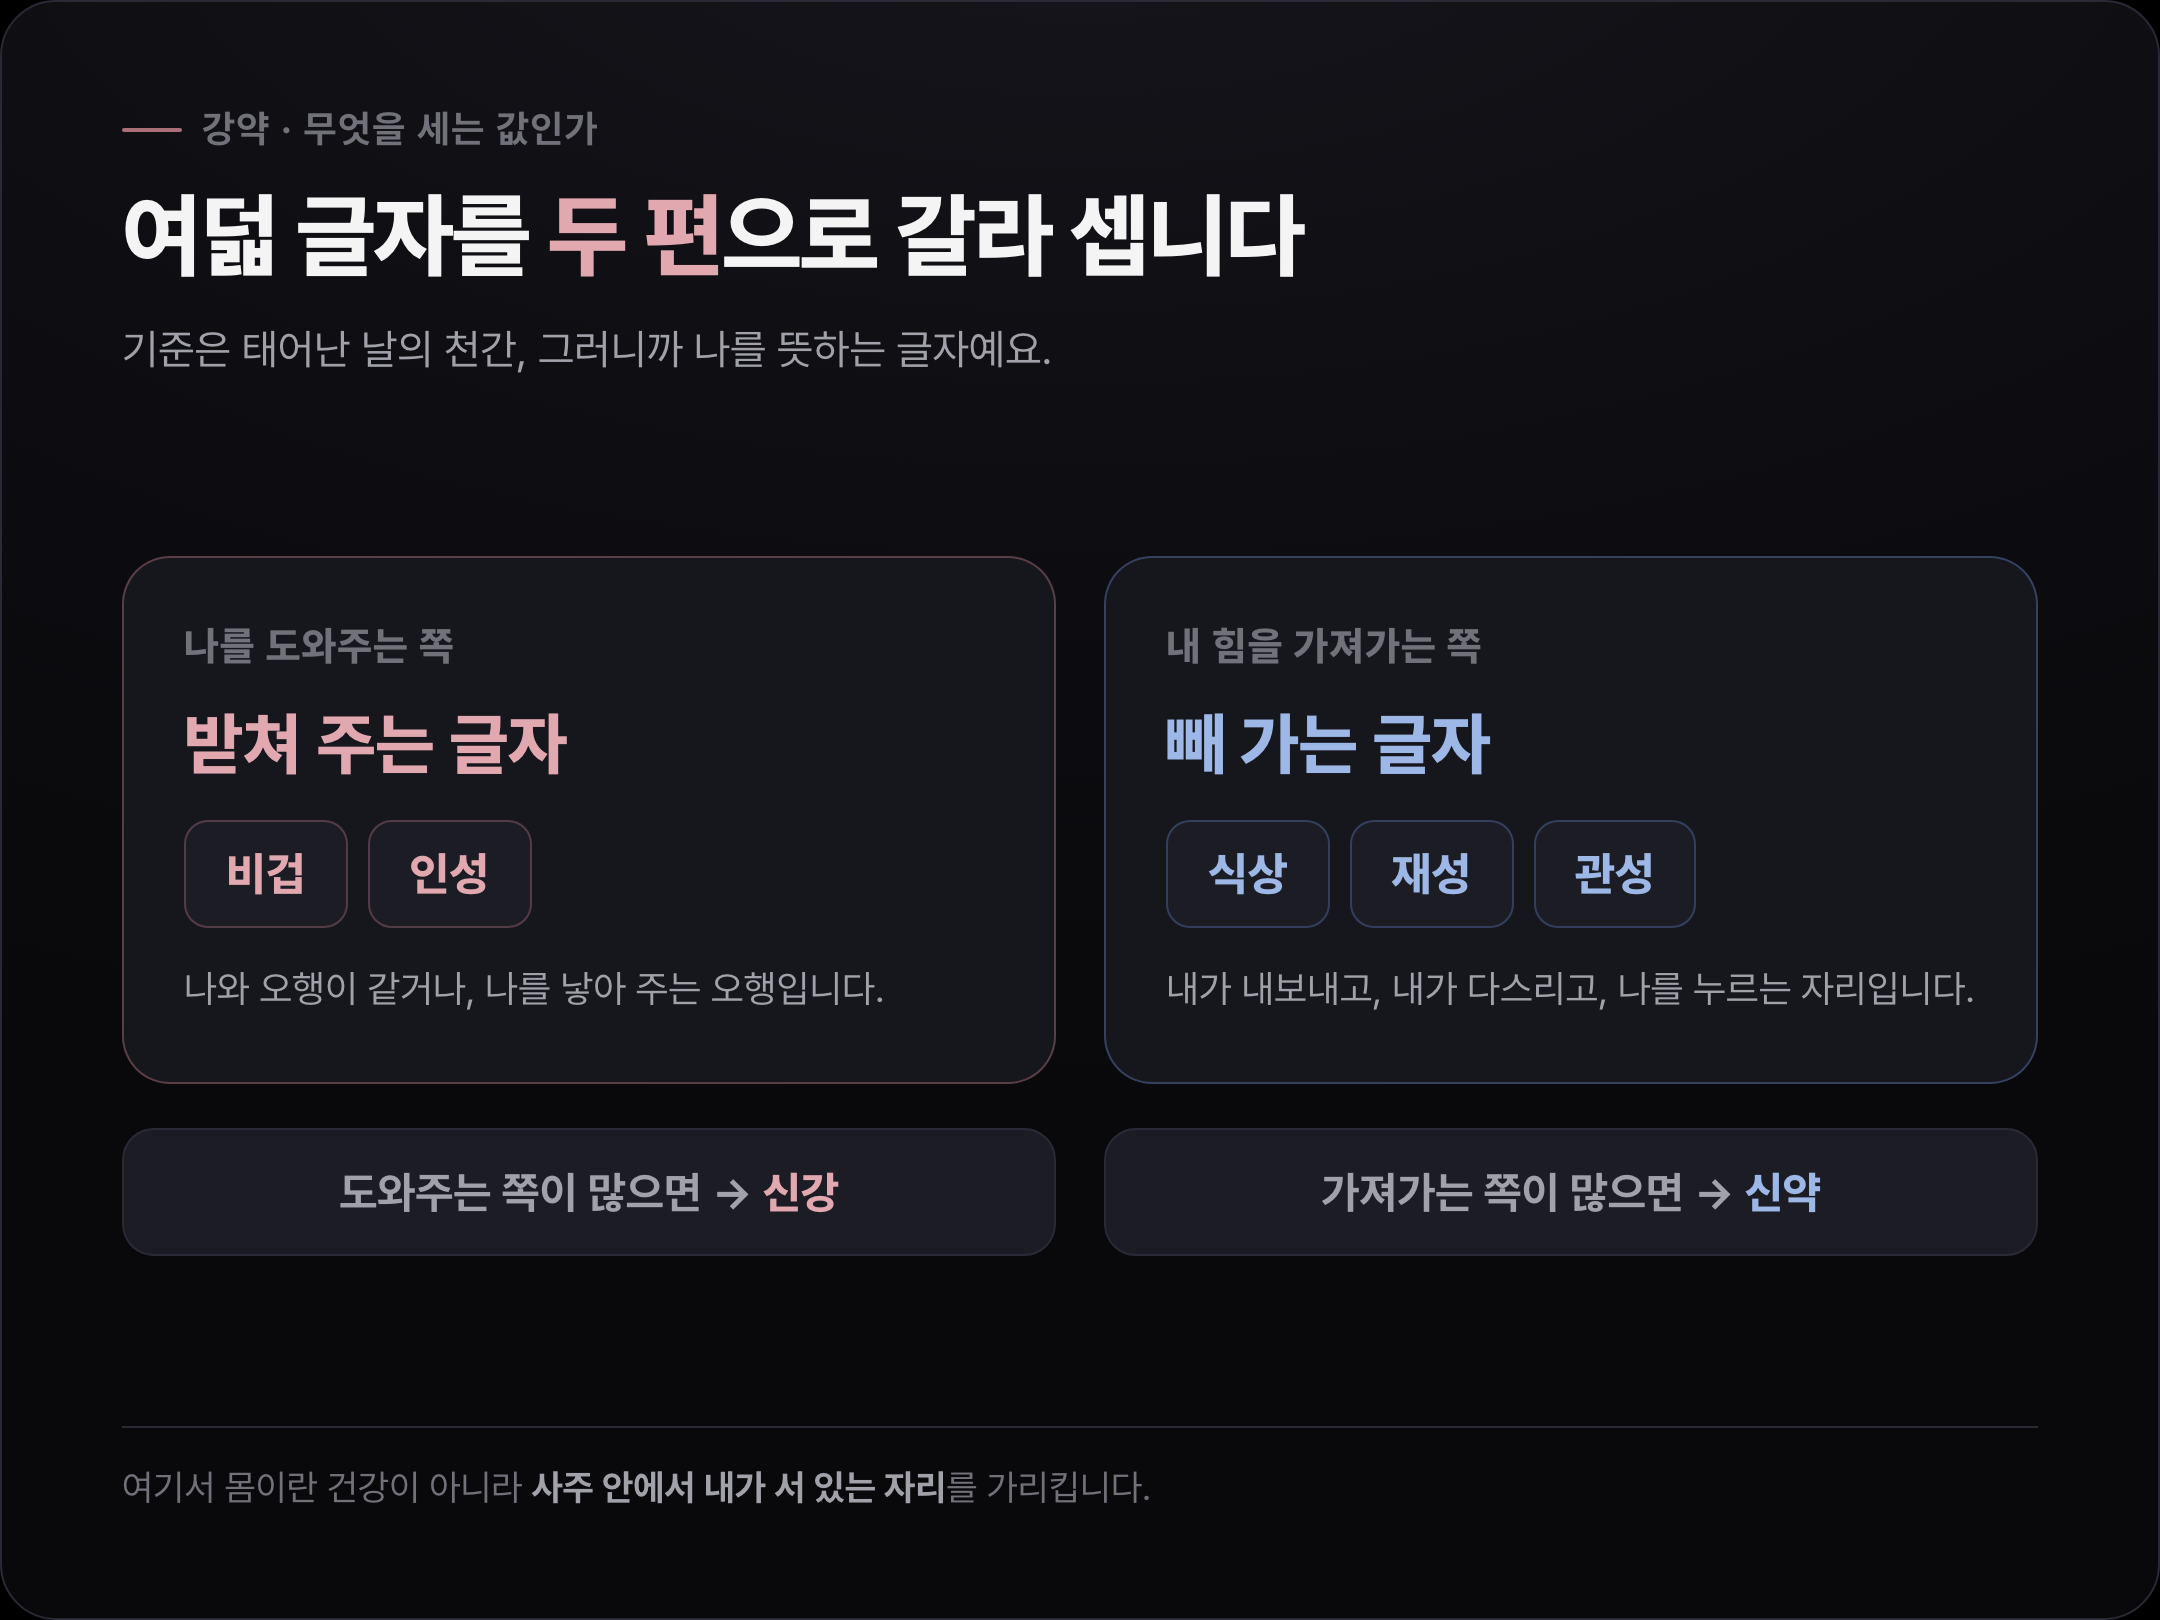
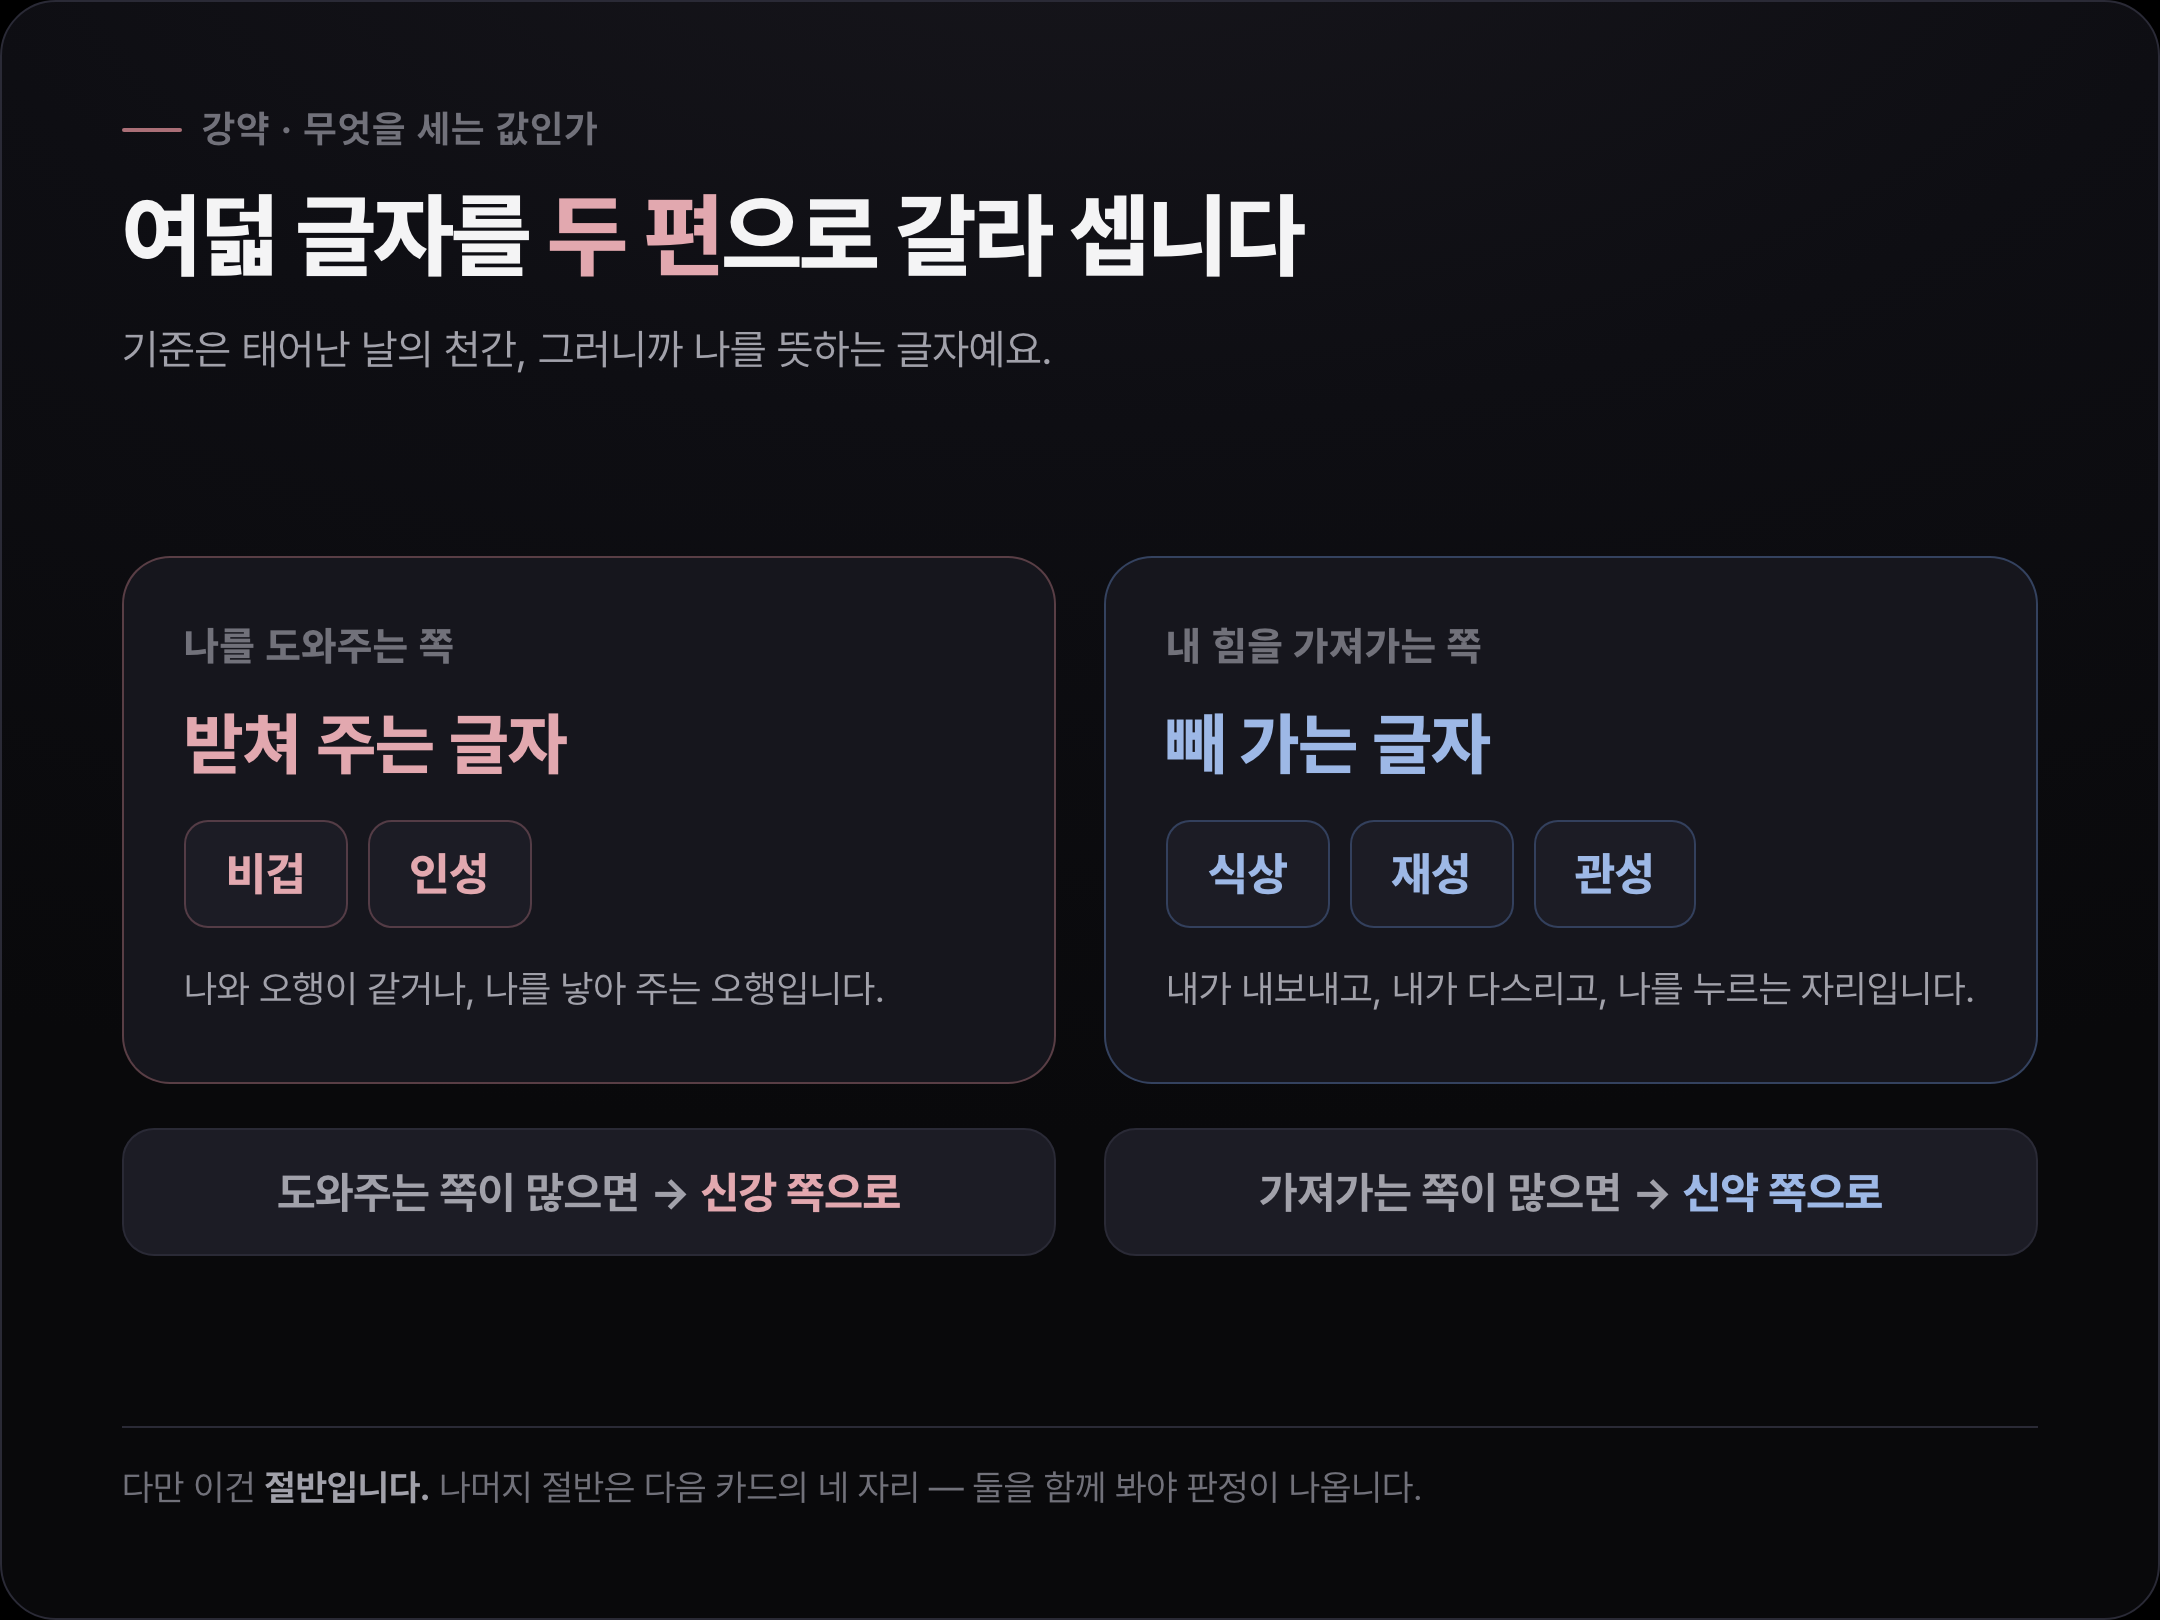
fix(stories): 강약 판정 FAQ 정정 + 사진→캐리커처 차단 우회 (#126)
## FAQ 정정 (정확성 재감사 [상])

본문의 4득 조건은 앞서 고쳤는데 FAQ 3번에 개수-단독 규칙이 그대로
남아 있었다. "도와주는 둘·가져가는 다섯이면 신약으로 잡힙니다" —
엔진 실측 4,000건 중 79건이 반례다(도와주는 쪽이 적은데 강한 쪽 판정).
개수는 기울기까지만 말하고 단계는 자리를 봐야 나온다로 고쳤다.

곁: 0득을 "신약"으로 못 박던 콜아웃을 "약한 쪽"으로(0득이면 태약·극약도
간다), deukryeong의 "단정은 어렵습니다" 단서 복원.
bigyeop — 사전에 없는 발현 시점("비견은 몇 년 뒤 알게 된다") 삭제,
확률 완화어 2곳 복원. rain — 계수 계절을 사전 표기(늦겨울)에 맞춤.

## photo-to-caricature 차단 우회

8/3까지 되던 연예인 hero 생성이 IMAGE_OTHER로 전면 차단됐다.
safetySettings로 못 낮추는 정책 필터이고, 2026-02-27 Nano Banana 2
안전 업그레이드 계열로 보인다(공식 changelog에는 항목 없음).

실측으로 좁힌 결과 모델 문제가 아니었다 — 이미지 모델 7종 전부 동일했고,
같은 사진·같은 모델에서 watercolor/line은 막히고 cartoon/pixar는 통과했다.
"likeness를 유지하라" 문구를 빼도 막혔다. 즉 막는 기준은 출력이 실물
사진에 얼마나 가까운가다.

→ 매체(수채화)는 두고 문형만 캐릭터 쪽으로 바꿔 톤을 유지했다.
   판정이 확률적이라(같은 문구인데 인물마다 갈림) 문구 3종 × 모델 2종을
   돌리는 재시도를 스크립트에 넣었다. 실측으로 1차 차단 → 2차 통과 확인.

hero 3장(박은빈·이동욱·공효진) 생성 완료.

Changed region(s): [[0.062, 0.8951, 0.6514, 0.9259], [0.5894, 0.7099, 0.8685, 0.7716], [0.1241, 0.7099, 0.4343, 0.7716]]

diff --git a/lib/stories/data/singang-sinyak.ts b/lib/stories/data/singang-sinyak.ts
@@ -31,13 +31,17 @@ export const singangSinyak: Story = {
         {
           kind: "image",
           src: "/stories/figures/singang-sinyak-1.png",
-          alt: "강약 판정 구조 도표 — 나를 도와주는 비겁·인성과 힘을 가져가는 식상·재성·관성을 양쪽에 놓고 어느 쪽이 많은지를 세는 구조",
+          alt: "강약 판정의 첫 단계 도표 — 나를 도와주는 비겁·인성과 힘을 가져가는 식상·재성·관성을 양쪽에 놓고 어느 쪽 글자가 많은지를 세는 구조",
           caption:
-            "도와주는 쪽이 많으면 강한 사주, 가져가는 쪽이 많으면 약한 사주로 기웁니다.",
+            "어느 쪽이 많은지를 셉니다. 다만 이건 절반이고, 나머지 절반은 다음 카드의 네 자리예요.",
         },
         {
           kind: "p",
-          text: "도와주는 쪽이 더 많으면 [신강(身強)](/dict/gangyak/singang), 가져가는 쪽이 더 많으면 [신약(身弱)](/dict/gangyak/sinyak)이에요. 몸이 강하다, 몸이 약하다는 한자 그대로의 뜻이지만 여기서 몸은 건강이 아니라 사주 안에서 내가 서 있는 자리를 가리킵니다.",
+          text: "여기까지가 절반입니다. 도와주는 쪽이 많으면 [신강(身強)](/dict/gangyak/singang) 쪽으로, 가져가는 쪽이 많으면 [신약(身弱)](/dict/gangyak/sinyak) 쪽으로 기울어요. 몸이 강하다, 몸이 약하다는 한자 그대로의 뜻이지만 여기서 몸은 건강이 아니라 사주 안에서 내가 서 있는 자리를 가리킵니다.",
+        },
+        {
+          kind: "p",
+          text: "**나머지 절반은 개수가 아니라 자리입니다.** 사전은 두 조건을 함께 걸어 둬요. 네 자리 중 도움을 받은 곳이 다수여야 하고, 글자 수도 도와주는 쪽이 많아야 신강입니다. 그래서 **글자 수가 많은데도 신약으로 떨어지는 사주가 실제로 있습니다.** 자리를 못 얻었을 때요.",
         },
         {
           kind: "callout",
@@ -74,11 +78,16 @@ export const singangSinyak: Story = {
         },
         {
           kind: "p",
-          text: "다만 득령 하나로 끝나지는 않습니다. 사전은 여기에 단서를 분명히 달아 뒀어요. 월지에서 힘을 얻었어도 나머지 일곱 글자가 모두 빼앗아 가면 신약이 될 수 있고, 월지에서 못 얻었어도 다른 자리에서 강하게 보충하면 신강이 될 수 있다고요.",
+          text: "다만 득령 하나로 끝나지는 않습니다. 사전은 여기에 단서를 분명히 달아 뒀어요. 월지에서 힘을 얻었어도 나머지 일곱 글자가 모두 빼앗아 가면 신약이 될 수 있고, 월지에서 못 얻었어도 다른 자리에서 강하게 보충하면 신강이 될 수 있다고요. 한두 자리를 보강하는 것만으로 강한 쪽이 되는 경우도 있습니다. 그래서 개수만 세어서는 단계를 확정하기 어려워요.",
         },
         {
           kind: "p",
           text: "그리고 태어난 시각을 모르면 득시는 계산 자체가 시작되지 않습니다. 시각 없이 본 강약은 앞의 세 항목까지만 매겨진 값이라는 뜻이에요.",
+        },
+        {
+          kind: "callout",
+          tone: "tip",
+          text: "앞 절의 개수와 이 절의 자리를 함께 봐야 값이 나옵니다. **둘 중 하나만으로는 판정이 안 돼요.** 도와주는 글자가 넷이고 가져가는 글자가 둘이어도, 네 자리 중 하나만 걸렸다면 약한 쪽으로 떨어집니다. 자리가 개수보다 무겁게 작동하는 대목이에요.",
         },
       ],
     },
@@ -233,7 +242,7 @@ export const singangSinyak: Story = {
             },
             {
               q: "오행이 다 갖춰져 있으면 신강인가요?",
-              a: "별개입니다. 가짓수가 다 찼다는 것과 힘이 어느 쪽에 실렸느냐는 다른 계산이에요. 다섯 오행이 모두 있어도 나를 도와주는 글자가 둘이고 가져가는 글자가 다섯이면 신약으로 잡힙니다.",
+              a: "별개입니다. 가짓수가 다 찼다는 것과 힘이 어느 쪽에 실렸느냐는 다른 계산이에요. 다섯 오행이 모두 놓였어도 도와주는 글자가 적으면 약한 쪽으로 기웁니다. 다만 개수만으로 단계까지 확정하지는 않아요. 앞에서 본 네 자리를 함께 봐야 여덟 칸 중 어디인지가 나와요.",
             },
             {
               q: "태어난 시각을 모르면 강약을 못 보나요?",

diff --git a/lib/stories/data/bigyeop-saju.ts b/lib/stories/data/bigyeop-saju.ts
@@ -63,16 +63,11 @@ export const bigyeopSaju: Story = {
         },
         {
           kind: "p",
-          text: "다만 같은 힘이 지나치면 고집과 충돌로 나옵니다. 물러서지 않는 성질이 그대로 부딪힘이 되는 거죠.",
+          text: "다만 같은 힘이 지나치면 고집과 충돌로 나타날 수 있습니다. 물러서지 않는 성질이 그대로 부딪힘이 되는 거죠.",
         },
         {
           kind: "p",
           text: "사전은 여기에 재물 분산도 함께 적어 둡니다. 겁재만큼 세지는 않지만 비견 쪽에도 나눠 갖는 그림이 붙어 있다는 뜻이에요.",
-        },
-        {
-          kind: "callout",
-          tone: "tip",
-          text: "비견은 겁재보다 조용해서 오히려 늦게 드러납니다. 겁재는 그 자리에서 부딪혀 바로 보이는데, 비견은 몇 년 뒤 '그때 그 사람과는 결국 갈라섰지' 하고 알게 되는 쪽이에요.",
         },
       ],
     },
@@ -184,7 +179,7 @@ export const bigyeopSaju: Story = {
         },
         {
           kind: "p",
-          text: "반대로 이미 받침이 넉넉한 [신강](/dict/gangyak/singang) 사주라면 같은 글자가 과잉이 됩니다. 안 그래도 내 편이 많은데 하나가 더 붙는 셈이라, 밖과 조율할 일이 늘어나요.",
+          text: "반대로 이미 받침이 넉넉한 [신강](/dict/gangyak/singang) 사주라면 같은 글자가 과잉이 될 수 있습니다. 안 그래도 내 편이 많은데 하나가 더 붙는 셈이라, 밖과 조율할 일이 늘어나기 쉬워요.",
         },
         {
           kind: "callout",

diff --git a/lib/stories/data/rain-dream.ts b/lib/stories/data/rain-dream.ts
@@ -160,7 +160,7 @@ export const rainDream: Story = {
         },
         {
           kind: "p",
-          text: "수 기운 자체는 지혜와 유연함, 응축과 깊이를 뜻합니다. 계절로는 겨울, 방위로는 북쪽이고요.",
+          text: "수 기운 자체는 지혜와 유연함, 응축과 깊이를 뜻합니다. 방위로는 북쪽, 계절로는 겨울이고 계수는 그중에서도 늦겨울에 붙습니다.",
         },
         {
           kind: "image",
